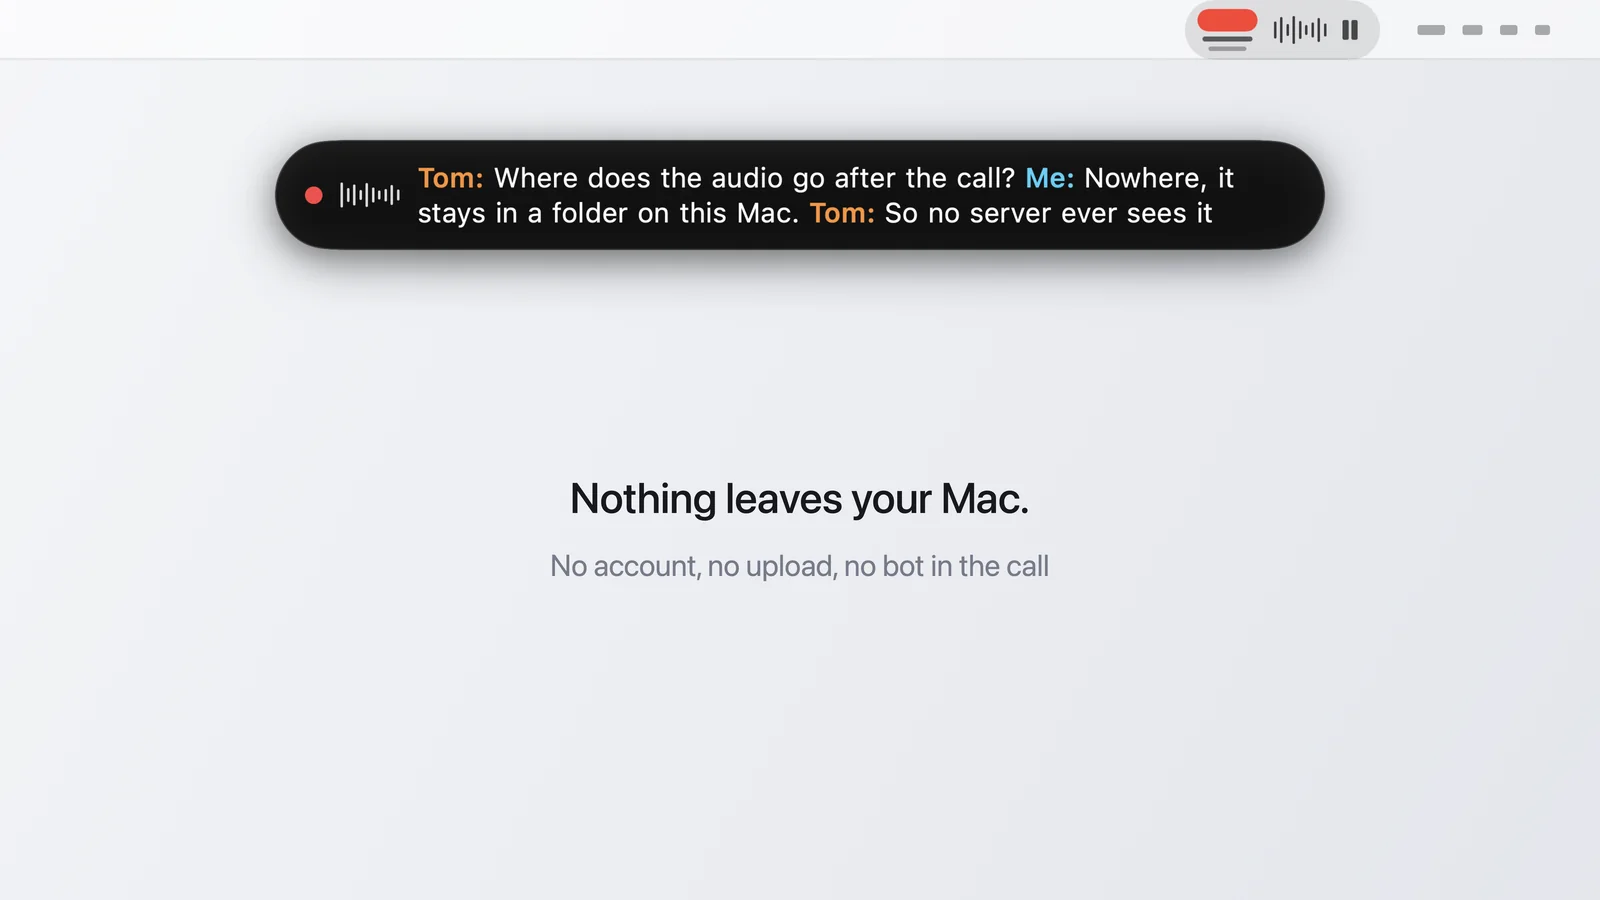
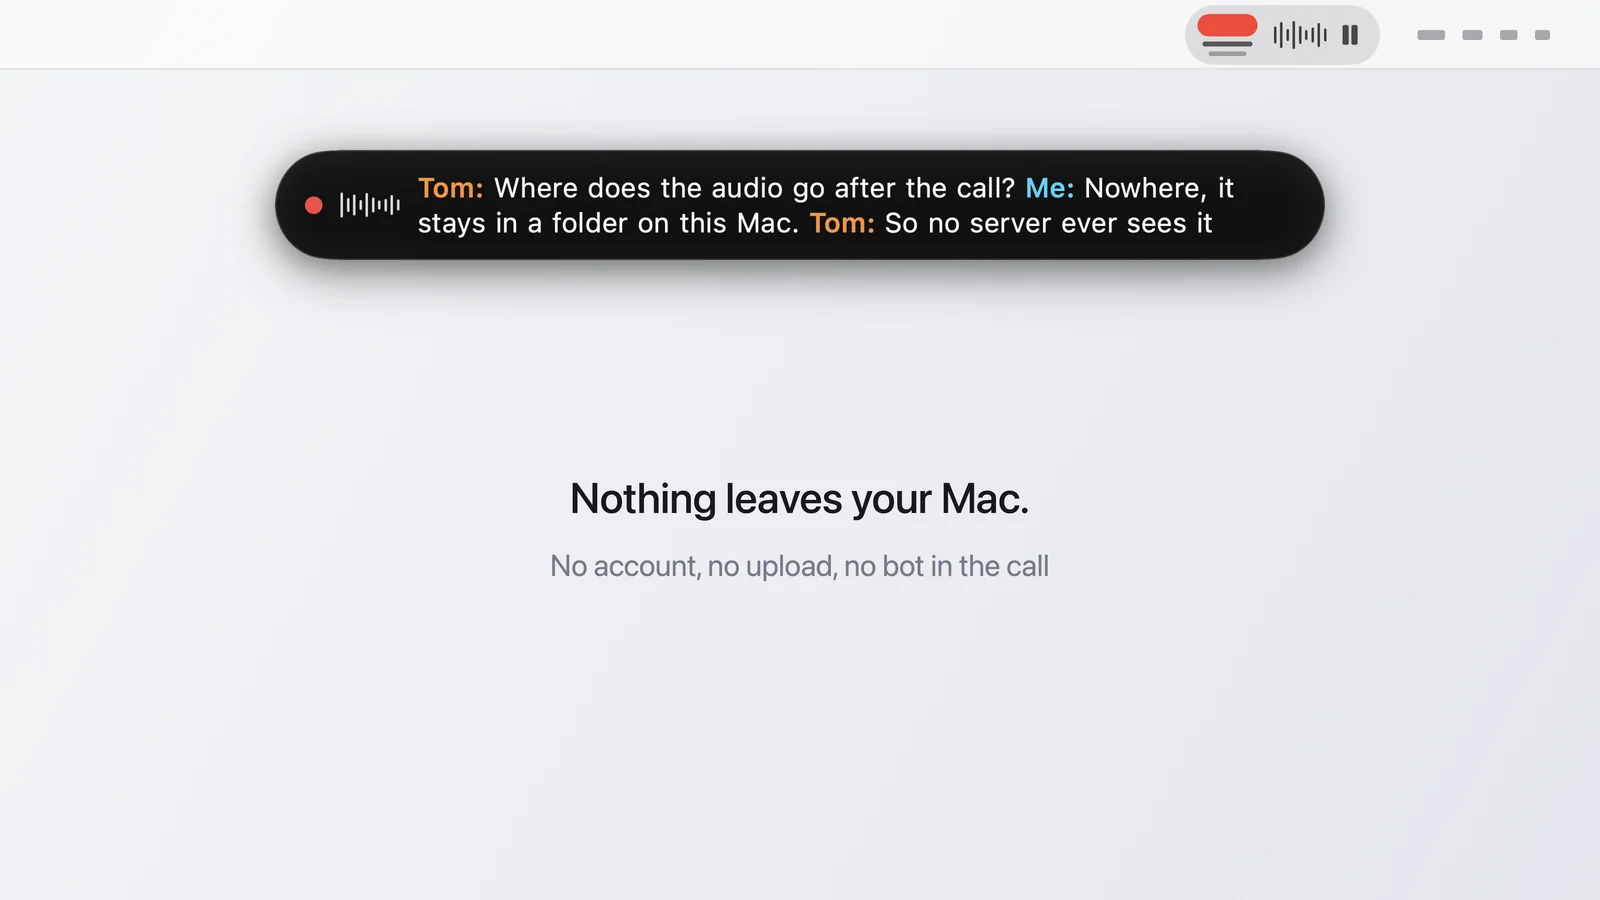
Hero renderer: menu bar pill fits inside the menu bar

Changed region(s): [[0.1562, 0.1556, 0.8438, 0.3111], [0.75, 0.0, 0.8438, 0.0622], [0.875, 0.0311, 0.9688, 0.0622]]

diff --git a/Sources/Transcriber/App/HeroRender.swift b/Sources/Transcriber/App/HeroRender.swift
@@ -66,7 +66,10 @@ enum HeroRender {
         let g = CGGradient(colorsSpace: sRGB, colors: [rgb(0xf4, 0xf5, 0xf8), rgb(0xe3, 0xe6, 0xec)] as CFArray, locations: [0, 1])!
         ctx.drawLinearGradient(g, start: CGPoint(x: 0, y: H), end: CGPoint(x: W, y: 0), options: [])
 
-        let menuH = 24 * scale
+        // The menu bar is as tall as the real one (24 pt); the pill is drawn at its rendered size but
+        // never taller than the bar, exactly like the status item in the menu bar.
+        let pillSize0 = CGSize(width: CGFloat(pillImg.width), height: CGFloat(pillImg.height))
+        let menuH = max(24 * scale, pillSize0.height + 4 * scale)
         ctx.setFillColor(rgb(255, 255, 255, 0.55)); ctx.fill(CGRect(x: 0, y: H - menuH, width: W, height: menuH))
         ctx.setFillColor(rgb(0, 0, 0, 0.10)); ctx.fill(CGRect(x: 0, y: H - menuH, width: W, height: 1.5 * scale / 2))
         // faint placeholders for other menu bar items to the right of the pill
